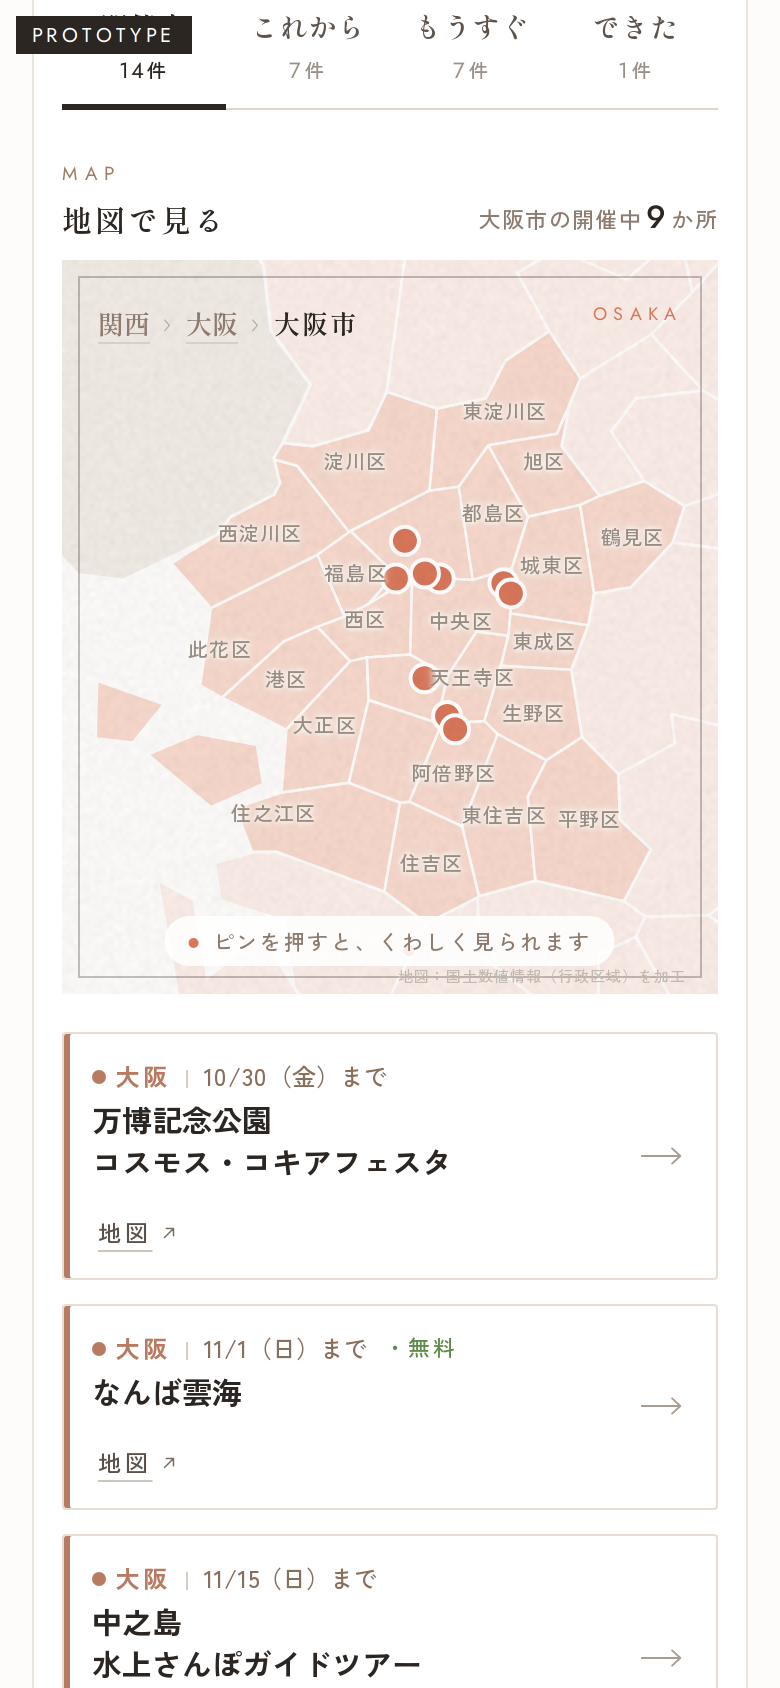
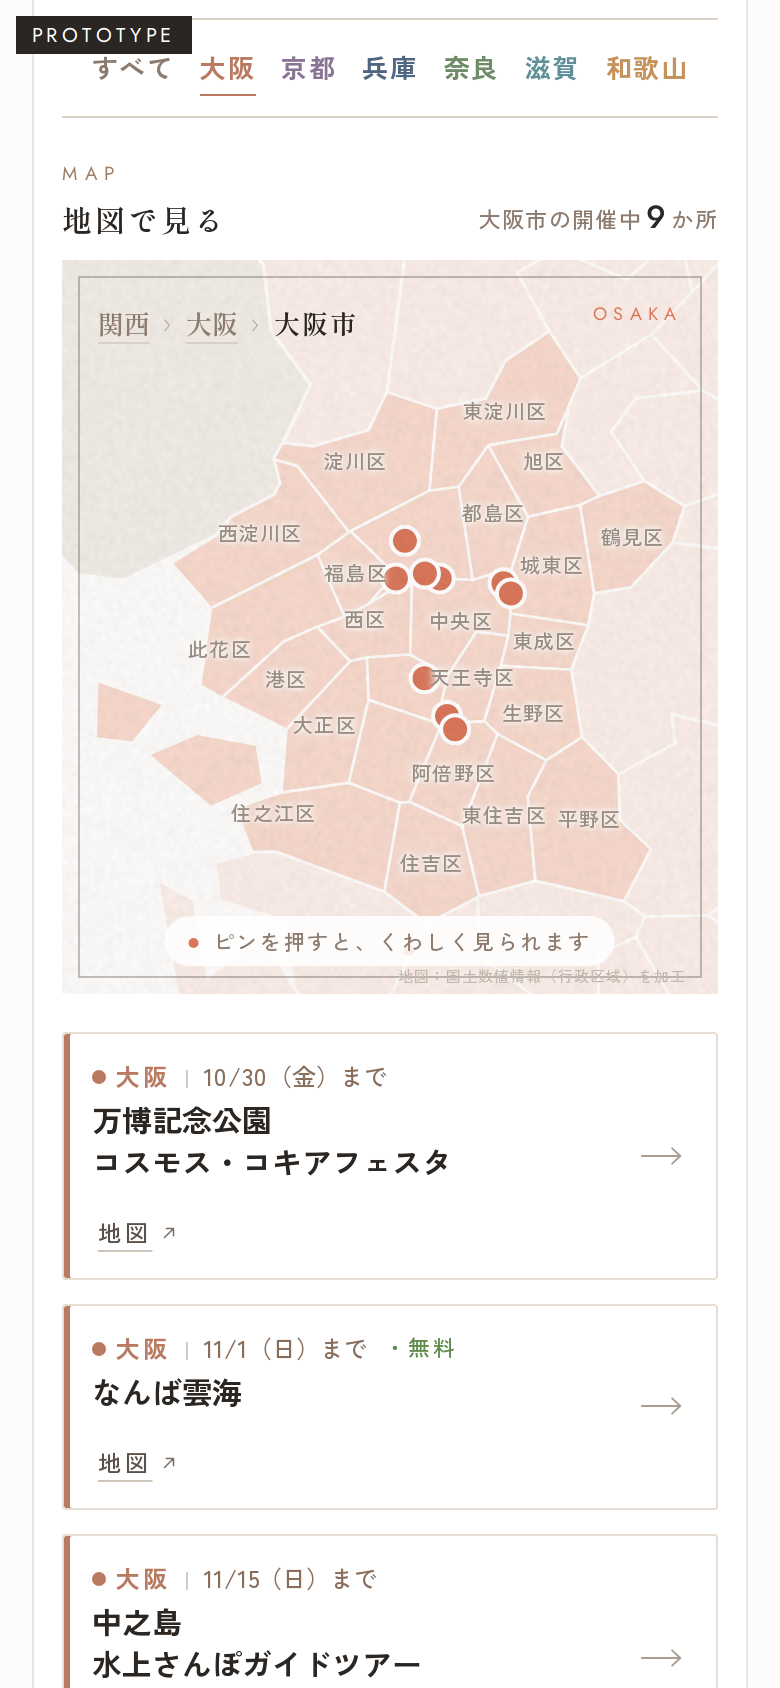
TOWN NOTES 試作：市まで寄ったら押しても動かない・もどるボタン (#171)
* TOWN NOTES（仮）: おでかけ先の場所を緯度経度にする仕組み

Claude-Session: https://claude.ai/code/session_012U6So1FwuhCU8YQS91whDj

* TOWN NOTES（仮）: 地図とピンの仮ページ（links/townnotes/）

Claude-Session: https://claude.ai/code/session_012U6So1FwuhCU8YQS91whDj

* townnotes: geo.json

* TOWN NOTES（仮）: 今のおでかけリストに地図とピンを組み込んだ試作

Claude-Session: https://claude.ai/code/session_012U6So1FwuhCU8YQS91whDj

* 古い試作テンプレートを消す

Claude-Session: https://claude.ai/code/session_012U6So1FwuhCU8YQS91whDj

* townnotes: geo.json

* TOWN NOTES（仮）: もうすぐのピンを点線の輪に

Claude-Session: https://claude.ai/code/session_012U6So1FwuhCU8YQS91whDj

* TOWN NOTES（仮）: 地図を指で拡大できる明るい地図に（区名・駅名つき）

Claude-Session: https://claude.ai/code/session_012U6So1FwuhCU8YQS91whDj

* townnotes: shots

* TOWN NOTES（仮）: 府県名・まとまりの丸・出典の表示を直す

Claude-Session: https://claude.ai/code/session_012U6So1FwuhCU8YQS91whDj

* townnotes: shots

* TOWN NOTES（仮）: イラストの地図に戻す（府県・市区町村の形だけ、明るい色、指で拡大）

Claude-Session: https://claude.ai/code/session_012U6So1FwuhCU8YQS91whDj

* townnotes: shots

* TOWN NOTES（仮）: 府県を選んだとき、ほかの府県は薄いベージュに

Claude-Session: https://claude.ai/code/session_012U6So1FwuhCU8YQS91whDj

* townnotes: shots

* TOWN NOTES 試作 v5: 押すだけで 関西→府県→市・区 と寄る地図（指2本なし）

Claude-Session: https://claude.ai/code/session_012U6So1FwuhCU8YQS91whDj

* townnotes: shots

* TOWN NOTES 試作: 府県ボタンと件数を地図のすぐ上へ

Claude-Session: https://claude.ai/code/session_012U6So1FwuhCU8YQS91whDj

* townnotes: shots

* TOWN NOTES 試作: 件数の行は上に戻し、府県ボタンだけ地図の上へ
[…]

diff --git a/links/townnotes/map.js b/links/townnotes/map.js
@@ -44,6 +44,7 @@ var css=`
 .tn .crumb{position:absolute;left:18px;top:16px;z-index:5;display:flex;align-items:center;gap:6px;font-family:"Shippori Mincho",serif;font-weight:600;font-size:13px;letter-spacing:.08em;color:#2B2622}
 .tn .crumb button{font:inherit;color:#8C7B6E;background:none;border:0;padding:6px 0;cursor:pointer;text-decoration:underline;text-decoration-color:#D9CFC4;text-underline-offset:4px}
 .tn .crumb i{font-style:normal;font-family:Jost,sans-serif;color:#B3AAA1;font-weight:300}
+.tn .bk{position:absolute;right:12px;top:10px;z-index:6;display:none;font-family:"Zen Kaku Gothic New",sans-serif;font-weight:700;font-size:12px;letter-spacing:.06em;color:#5E534B;background:#fff;border:1px solid #DDD3C8;border-radius:99px;padding:8px 14px;cursor:pointer;box-shadow:0 1px 4px rgba(60,40,20,.08)}
 .tn .cen{position:absolute;right:18px;top:20px;z-index:5;font-family:Jost,sans-serif;font-size:9px;letter-spacing:.34em;color:#A39A90;transition:color .4s}
 .tn .hint{position:absolute;left:50%;transform:translateX(-50%);white-space:nowrap;bottom:14px;background:rgba(255,255,255,.88);border-radius:99px;padding:5px 12px;z-index:5;text-align:center;font-family:"Zen Kaku Gothic New",sans-serif;font-size:10.5px;letter-spacing:.08em;color:#8C7B6E;pointer-events:none}
 .tn .hint:before{content:"";display:inline-block;width:5px;height:5px;border-radius:50%;background:#D9775A;margin-right:7px;vertical-align:1px}
@@ -74,7 +75,7 @@ var st=document.createElement("style");st.textContent=css;document.head.appendCh
 var box=document.createElement("div");box.className="tn";
 box.innerHTML='<div class="hd"><div><span class="e">MAP</span><span class="j">地図で見る</span></div><div class="n" id="tnn"></div></div>'+
  '<div class="fr"><svg class="m" preserveAspectRatio="xMidYMid meet"><g class="g-pf"></g><g class="g-mu"></g><g class="g-pin"></g></svg><div class="lbs"></div>'+
- '<div class="crumb"></div><div class="cen">KANSAI</div><div class="hint"></div><div class="cr">地図：国土数値情報（行政区域）を加工</div></div>'+
+ '<div class="crumb"></div><div class="cen">KANSAI</div><button type="button" class="bk"></button><div class="hint"></div><div class="cr">地図：国土数値情報（行政区域）を加工</div></div>'+
  '<div class="pop" role="dialog"><button class="x" type="button" aria-label="閉じる">×</button><div class="pb"></div></div>'+
  '<div class="lg"><span>開催・オープン</span><span class="s">これからできる</span></div>';
 var svg=$("svg.m",box),G={pf:$(".g-pf",svg),mu:$(".g-mu",svg),pin:$(".g-pin",svg)},LBS=$(".lbs",box),pop=$(".pop",box);
@@ -102,9 +103,9 @@ function inGeom(lon,lat,g){var ps=g.type==="Polygon"?[g.coordinates]:g.coordinat
 function el(t,a,par){var e=document.createElementNS(NS,t);for(var k in a)e.setAttribute(k,a[k]);if(par)par.appendChild(e);return e}
 function setup(KS){
  KS.pref.features.forEach(function(f){var p=f.properties.p;PF[p]={bb:gbb(f.geometry),path:el("path",{d:geom2d(f.geometry),"class":"pf",fill:FILL[p]},G.pf)};
-  PF[p].path.addEventListener("click",function(){if(state.pref!==p)pickPref(p)})});
+  PF[p].path.addEventListener("click",function(){if(level()===1)pickPref(p)})});
  KS.muni.features.forEach(function(f){var pr=f.properties,m={p:pr.p,n:pr.n,c:pr.c,g:f.geometry,bb:gbb(f.geometry)};m.id=m.p+"|"+m.c+"|"+m.n;
-  m.path=el("path",{d:geom2d(f.geometry),"class":"mu"},G.mu);m.path.addEventListener("click",function(ev){if(state.pref===m.p){ev.stopPropagation();goMuni(m.grp)}});MU.push(m)});
+  m.path=el("path",{d:geom2d(f.geometry),"class":"mu"},G.mu);m.path.addEventListener("click",function(ev){if(level()===2&&state.pref===m.p){ev.stopPropagation();goMuni(m.grp)}});MU.push(m)});
  // 大阪市・京都市・神戸市・堺市などは、区をまとめて「市」として寄る
  MU.forEach(function(m){var gid=m.p+"|"+(m.c||m.n);var g=GR[gid];if(!g){g=GR[gid]={id:gid,p:m.p,n:m.c||m.n,city:!!m.c,mus:[],bb:[1e9,1e9,-1e9,-1e9]}}g.mus.push(m);m.grp=g;g.bb=[Math.min(g.bb[0],m.bb[0]),Math.min(g.bb[1],m.bb[1]),Math.max(g.bb[2],m.bb[2]),Math.max(g.bb[3],m.bb[3])]});
  var b=[1e9,1e9,-1e9,-1e9];PREFS.forEach(function(p){var x=PF[p].bb;b=[Math.min(b[0],x[0]),Math.min(b[1],x[1]),Math.max(b[2],x[2]),Math.max(b[3],x[3])]});HOME=b;
@@ -160,7 +161,8 @@ function render(){var lv=level(),pf=state.pref,m=state.muni,pins=list.filter(fun
  function sep(){var i=document.createElement("i");i.textContent="›";cr.appendChild(i)}
  function cur(txt){var s=document.createElement("span");s.textContent=txt;cr.appendChild(s)}
  if(lv===1)cur("関西");else{cb("関西",function(){pickPref("")});sep();if(lv===2)cur(pf);else{cb(pf,function(){goPref()});sep();cur(m.n)}}
- var ce=$(".cen",box);ce.textContent=pf?EN[pf]:"KANSAI";ce.style.color=pf?PC[pf]:"";
+ var ce=$(".cen",box);ce.textContent=pf?EN[pf]:"KANSAI";ce.style.color=pf?PC[pf]:"";ce.style.display=lv===1?"":"none";
+ var bk=$(".bk",box);bk.style.display=lv===1?"none":"block";bk.textContent=lv===3?"‹ "+pf+"にもどる":"‹ 関西にもどる";bk.onclick=function(){if(level()===3)goPref();else pickPref("")};
  $(".hint",box).textContent=lv===1?"府県を押すと、近づきます":lv===2?"市や区を押すと、もっと近づきます":"ピンを押すと、くわしく見られます";
  $("#tnn",box).innerHTML=(lv===3?m.n:pf||"関西")+"の"+curTab()+"<b>"+(lv===3?(cnt[m.id]||0):pins.filter(function(i){return !pf||i.pref===pf}).length)+"</b>か所";
  apply();}

diff --git a/tools/townnotes/map.src.js b/tools/townnotes/map.src.js
@@ -44,6 +44,7 @@ var css=`
 .tn .crumb{position:absolute;left:18px;top:16px;z-index:5;display:flex;align-items:center;gap:6px;font-family:"Shippori Mincho",serif;font-weight:600;font-size:13px;letter-spacing:.08em;color:#2B2622}
 .tn .crumb button{font:inherit;color:#8C7B6E;background:none;border:0;padding:6px 0;cursor:pointer;text-decoration:underline;text-decoration-color:#D9CFC4;text-underline-offset:4px}
 .tn .crumb i{font-style:normal;font-family:Jost,sans-serif;color:#B3AAA1;font-weight:300}
+.tn .bk{position:absolute;right:12px;top:10px;z-index:6;display:none;font-family:"Zen Kaku Gothic New",sans-serif;font-weight:700;font-size:12px;letter-spacing:.06em;color:#5E534B;background:#fff;border:1px solid #DDD3C8;border-radius:99px;padding:8px 14px;cursor:pointer;box-shadow:0 1px 4px rgba(60,40,20,.08)}
 .tn .cen{position:absolute;right:18px;top:20px;z-index:5;font-family:Jost,sans-serif;font-size:9px;letter-spacing:.34em;color:#A39A90;transition:color .4s}
 .tn .hint{position:absolute;left:50%;transform:translateX(-50%);white-space:nowrap;bottom:14px;background:rgba(255,255,255,.88);border-radius:99px;padding:5px 12px;z-index:5;text-align:center;font-family:"Zen Kaku Gothic New",sans-serif;font-size:10.5px;letter-spacing:.08em;color:#8C7B6E;pointer-events:none}
 .tn .hint:before{content:"";display:inline-block;width:5px;height:5px;border-radius:50%;background:#D9775A;margin-right:7px;vertical-align:1px}
@@ -74,7 +75,7 @@ var st=document.createElement("style");st.textContent=css;document.head.appendCh
 var box=document.createElement("div");box.className="tn";
 box.innerHTML='<div class="hd"><div><span class="e">MAP</span><span class="j">地図で見る</span></div><div class="n" id="tnn"></div></div>'+
  '<div class="fr"><svg class="m" preserveAspectRatio="xMidYMid meet"><g class="g-pf"></g><g class="g-mu"></g><g class="g-pin"></g></svg><div class="lbs"></div>'+
- '<div class="crumb"></div><div class="cen">KANSAI</div><div class="hint"></div><div class="cr">地図：国土数値情報（行政区域）を加工</div></div>'+
+ '<div class="crumb"></div><div class="cen">KANSAI</div><button type="button" class="bk"></button><div class="hint"></div><div class="cr">地図：国土数値情報（行政区域）を加工</div></div>'+
  '<div class="pop" role="dialog"><button class="x" type="button" aria-label="閉じる">×</button><div class="pb"></div></div>'+
  '<div class="lg"><span>開催・オープン</span><span class="s">これからできる</span></div>';
 var svg=$("svg.m",box),G={pf:$(".g-pf",svg),mu:$(".g-mu",svg),pin:$(".g-pin",svg)},LBS=$(".lbs",box),pop=$(".pop",box);
@@ -102,9 +103,9 @@ function inGeom(lon,lat,g){var ps=g.type==="Polygon"?[g.coordinates]:g.coordinat
 function el(t,a,par){var e=document.createElementNS(NS,t);for(var k in a)e.setAttribute(k,a[k]);if(par)par.appendChild(e);return e}
 function setup(KS){
  KS.pref.features.forEach(function(f){var p=f.properties.p;PF[p]={bb:gbb(f.geometry),path:el("path",{d:geom2d(f.geometry),"class":"pf",fill:FILL[p]},G.pf)};
-  PF[p].path.addEventListener("click",function(){if(state.pref!==p)pickPref(p)})});
+  PF[p].path.addEventListener("click",function(){if(level()===1)pickPref(p)})});
  KS.muni.features.forEach(function(f){var pr=f.properties,m={p:pr.p,n:pr.n,c:pr.c,g:f.geometry,bb:gbb(f.geometry)};m.id=m.p+"|"+m.c+"|"+m.n;
-  m.path=el("path",{d:geom2d(f.geometry),"class":"mu"},G.mu);m.path.addEventListener("click",function(ev){if(state.pref===m.p){ev.stopPropagation();goMuni(m.grp)}});MU.push(m)});
+  m.path=el("path",{d:geom2d(f.geometry),"class":"mu"},G.mu);m.path.addEventListener("click",function(ev){if(level()===2&&state.pref===m.p){ev.stopPropagation();goMuni(m.grp)}});MU.push(m)});
  // 大阪市・京都市・神戸市・堺市などは、区をまとめて「市」として寄る
  MU.forEach(function(m){var gid=m.p+"|"+(m.c||m.n);var g=GR[gid];if(!g){g=GR[gid]={id:gid,p:m.p,n:m.c||m.n,city:!!m.c,mus:[],bb:[1e9,1e9,-1e9,-1e9]}}g.mus.push(m);m.grp=g;g.bb=[Math.min(g.bb[0],m.bb[0]),Math.min(g.bb[1],m.bb[1]),Math.max(g.bb[2],m.bb[2]),Math.max(g.bb[3],m.bb[3])]});
  var b=[1e9,1e9,-1e9,-1e9];PREFS.forEach(function(p){var x=PF[p].bb;b=[Math.min(b[0],x[0]),Math.min(b[1],x[1]),Math.max(b[2],x[2]),Math.max(b[3],x[3])]});HOME=b;
@@ -160,7 +161,8 @@ function render(){var lv=level(),pf=state.pref,m=state.muni,pins=list.filter(fun
  function sep(){var i=document.createElement("i");i.textContent="›";cr.appendChild(i)}
  function cur(txt){var s=document.createElement("span");s.textContent=txt;cr.appendChild(s)}
  if(lv===1)cur("関西");else{cb("関西",function(){pickPref("")});sep();if(lv===2)cur(pf);else{cb(pf,function(){goPref()});sep();cur(m.n)}}
- var ce=$(".cen",box);ce.textContent=pf?EN[pf]:"KANSAI";ce.style.color=pf?PC[pf]:"";
+ var ce=$(".cen",box);ce.textContent=pf?EN[pf]:"KANSAI";ce.style.color=pf?PC[pf]:"";ce.style.display=lv===1?"":"none";
+ var bk=$(".bk",box);bk.style.display=lv===1?"none":"block";bk.textContent=lv===3?"‹ "+pf+"にもどる":"‹ 関西にもどる";bk.onclick=function(){if(level()===3)goPref();else pickPref("")};
  $(".hint",box).textContent=lv===1?"府県を押すと、近づきます":lv===2?"市や区を押すと、もっと近づきます":"ピンを押すと、くわしく見られます";
  $("#tnn",box).innerHTML=(lv===3?m.n:pf||"関西")+"の"+curTab()+"<b>"+(lv===3?(cnt[m.id]||0):pins.filter(function(i){return !pf||i.pref===pf}).length)+"</b>か所";
  apply();}
